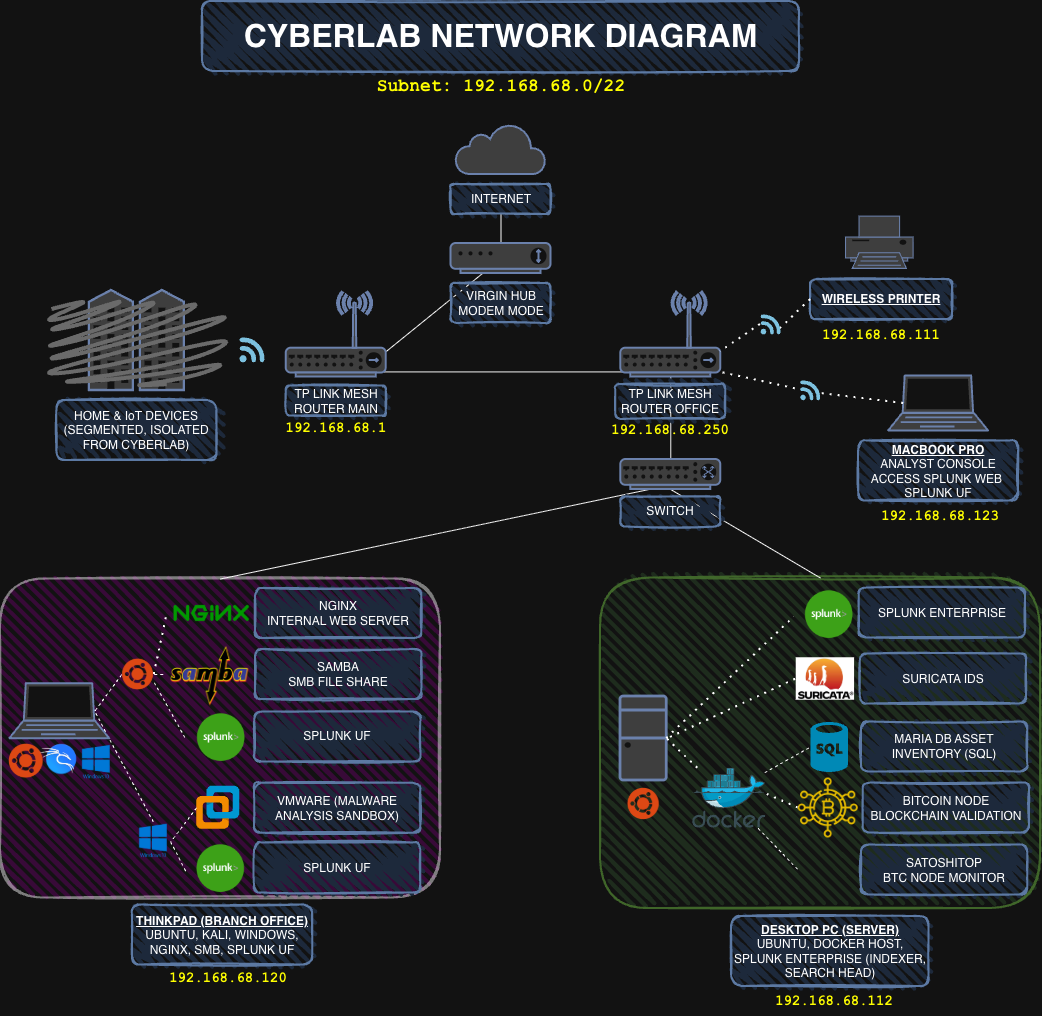
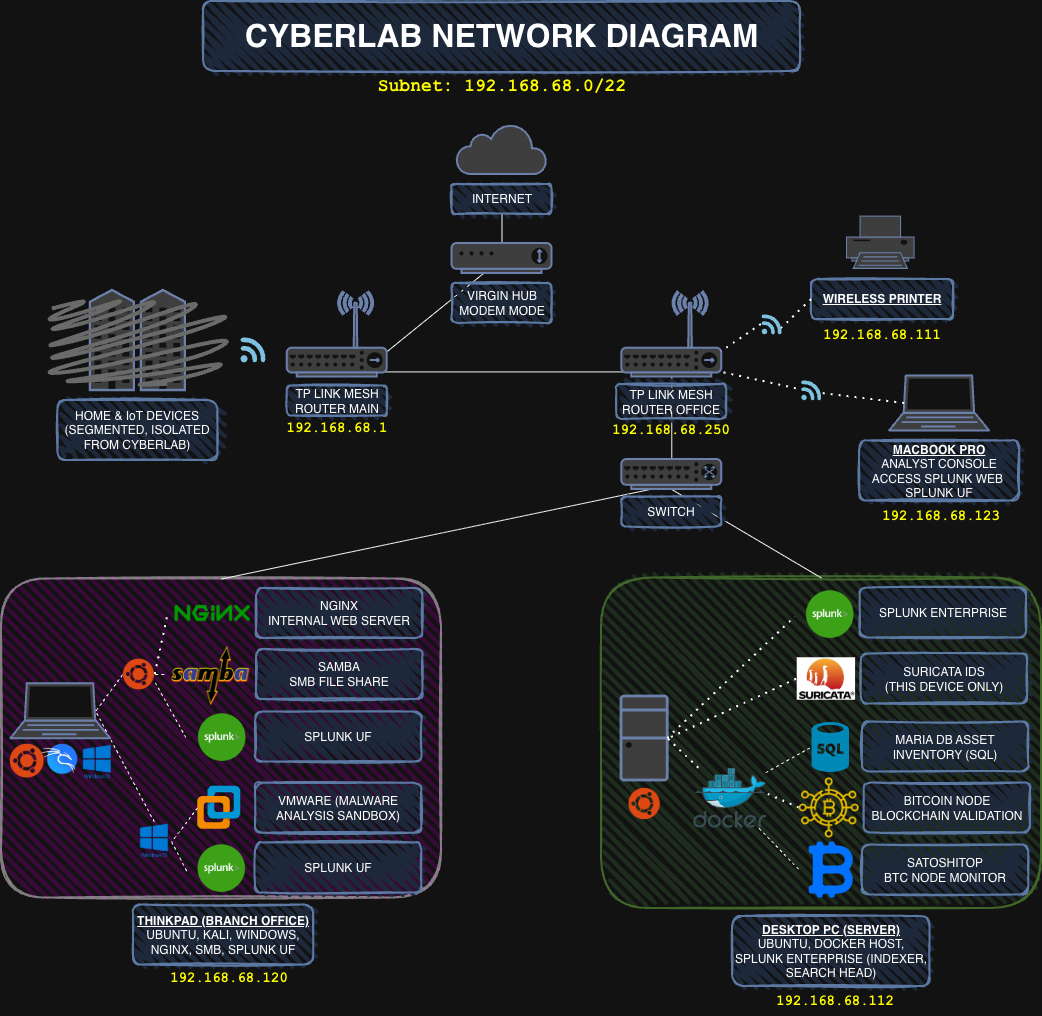
Fixed Suricata IDS Dashboard Documentation and updated Network Diagram

diff --git a/docs/splunk_dashboards/suricata_ids_dashboard.md b/docs/splunk_dashboards/suricata_ids_dashboard.md
@@ -123,6 +123,8 @@ index=ids event_type=alert
 Purpose:
 Shows the current severity distribution of Suricata alerts. This is the fastest “how bad is it right now?” panel in the dashboard. A sudden increase in High alerts is an immediate signal to pivot into the “Most Recent Alerts” table and top signatures/categories panels for context.
 
+Note:   
+Splunk already extracts Suricata EVE JSON fileds (e.g. `alert.severity`), so `spath` is optional and only used where helpful for readability.
 
 ### 2. Security Alerts Over Time (24h) — Visualization: Line Chart
 
@@ -159,19 +161,12 @@ Shows which Suricata signatures are firing the most. This is my “what’s domi
 
 SPL Used:
 ```bash
-index=ids event_type=alert
-| spath path=alert.severity output=sev
-| where sev=1 OR sev=2
+index=ids event_type=alert ('alert.severity'=1 OR 'alert.severity'=2)
 | stats count as hits by alert.signature
 | sort - hits
 | head 10
 ```
-- `| spath path=alert.severity output=sev` - Extract alert.severity from the Suricata EVE JSON into a field called sev.
-- `| where sev=1 OR sev=2` - Filter to higher-priority alerts only:
-  - 1 = High
-  - 2 = Medium    
-  This removes Low severity noise from the ranking.
-
+- `('alert.severity'=1 OR 'alert.severity'=2)` - Filter to higher-priority alerts only.
 - `| stats count as hits by alert.signature` - Count how many times each signature fired within the filtered High/Medium set.
 - `| sort - hits` - Sort so the most frequent High/Medium signatures appear first.
 - `| head 10` - Keep only the top 10.
@@ -295,7 +290,7 @@ This service exists purely to generate realistic web traffic and scanning activi
 
 **Screenshot**    
 
-![Suricata IDS Dashboard Tab 1](../../assets/splunk_dashboard_suricata_tab2.png)
+![Suricata IDS Dashboard Tab 2](../../assets/splunk_dashboard_suricata_tab2.png)
 
 
 ### 1. Unique Web Scanners (24h) — Victim 8080 — Visualization: Single Value
@@ -428,19 +423,16 @@ The goal is to separate higher-priority alerts from background noise and provide
 
 **Screenshot**    
 
-![Suricata IDS Dashboard Tab 1](../../assets/splunk_dashboard_suricata_tab3.png)
+![Suricata IDS Dashboard Tab 3](../../assets/splunk_dashboard_suricata_tab3.png)
 
 ### 1. High Severity Alerts (24h) — Visualization: Single Value
 
 SPL Used:
 ```bash
-index=ids event_type=alert
-| spath path=alert.severity output=sev
-| where sev=1
+index=ids event_type=alert alert.severity=1
 | stats count as high_alerts
 ```
-- `| spath path=alert.severity output=sev` - Extract alert.severity from the Suricata EVE JSON into a field called sev.
-- `| where sev=1` - Filter to High severity alerts only (severity value 1).
+- `alert.severity=1` - Filter to High severity alerts only (severity value 1).
 - `| stats count as high_alerts` - Count how many High severity alerts occurred.
 
 Purpose:
@@ -451,13 +443,10 @@ Shows the total number of High severity Suricata alerts in the last 24 hours. Th
 
 SPL Used:
 ```bash
-index=ids event_type=alert
-| spath path=alert.severity output=sev
-| where sev=1
+index=ids event_type=alert alert.severity=1
 | stats count as high_alerts
 ```
-- `| spath path=alert.severity output=sev` - Extract alert.severity from the Suricata EVE JSON into a field called sev.
-- `| where sev=1` - Filter to High severity alerts only (severity value 1).
+- `alert.severity=1` - Filter to High severity alerts only (severity value 1).
 - `| stats count as high_alerts` - Count how many High severity alerts occurred.
 
 Purpose:
